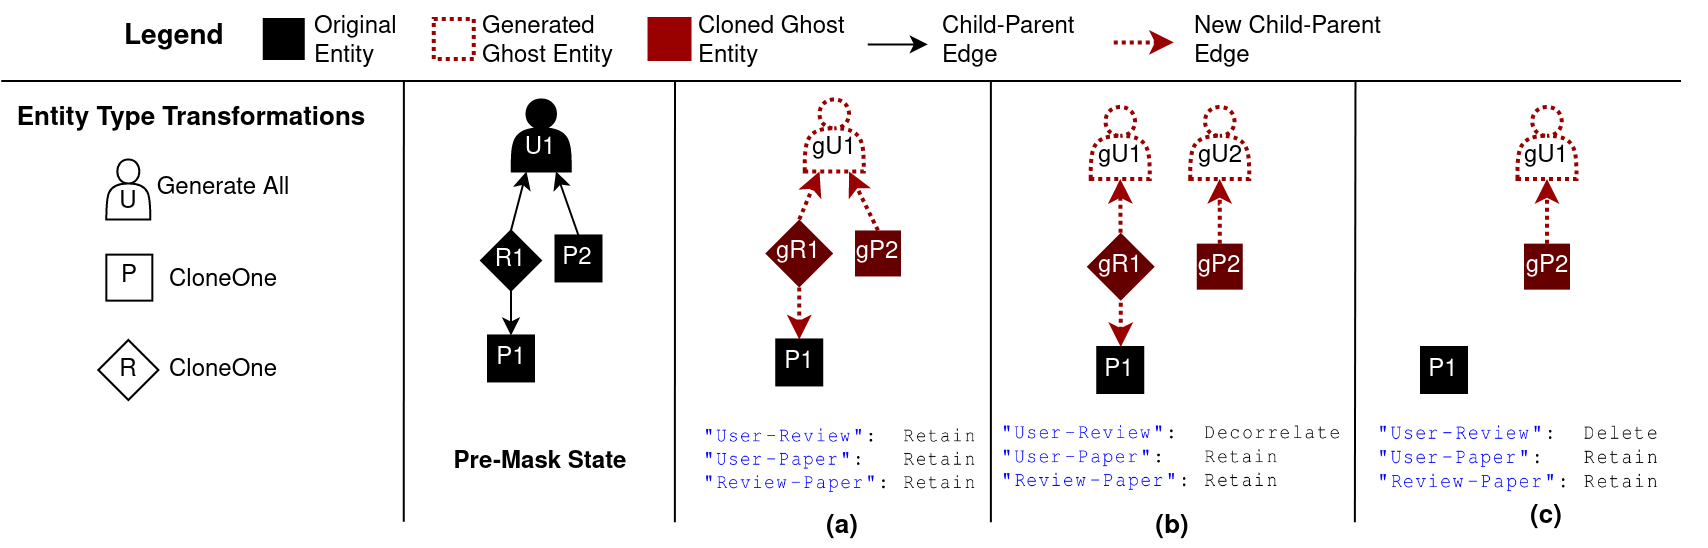
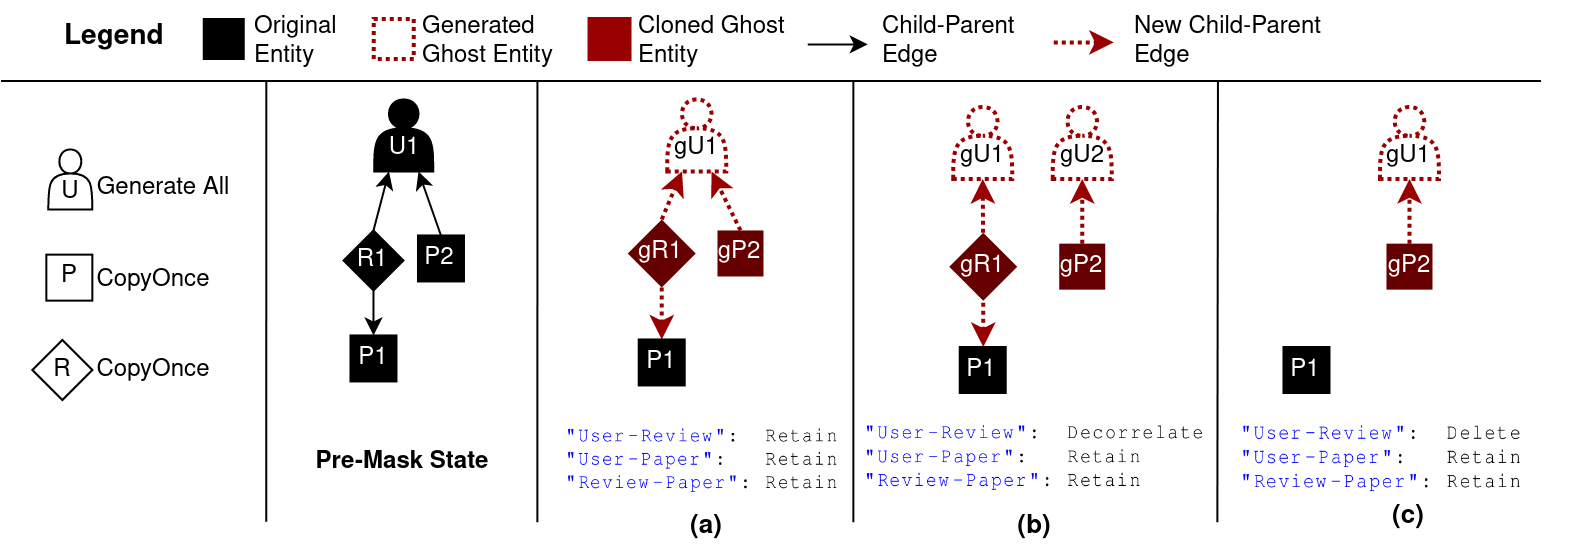
change naming of cloneOne to copy once

diff --git a/hotos21/design.tex b/hotos21/design.tex
@@ -25,8 +25,8 @@ retained, or decorrelated and replaced with edges to ghost entities.
 "id":         IDAttribute,
 "username":   Generate(Random),
 "active":     Generate(Default(false)),
-"darkmode":   CloneAll,
-"notifs":     CloneOne(Default(false)),
+"darkmode":   CopyAll,
+"notifs":     CopyOne(Default(false)),
 "tag_id":     GenerateForeignKey,
 \end{lstlisting}
     & 
@@ -78,7 +78,7 @@ For each value and edge attribute of each entity type, developers choose how to 
 attributes, given a real entity attribute value as a template. 
 The possible transformations include:
 
-\paragraph{(1) CloneAll.} Ghosts generated from the same template all share the template's
+\paragraph{(1) Copy entity content.} Ghosts generated from the same template all share the template's
     attribute value. If an attribute specifies an edge (is a foreign key column), 
     all ghosts will share the same edge to the same parent entity.
     This transformation allows developers to retain the entity's content and not have to
@@ -86,11 +86,11 @@ The possible transformations include:
     should only be chosen if ghost attribute values cannot be generated, or if this
     attribute says little about the true identity of the entity. 
 
-    For example, Figure~\ref{fig:ghosting} shows how the \texttt{darkmode} attribute is cloned in
+    For example, Figure~\ref{fig:ghosting} shows how the \texttt{darkmode} attribute is copied in
     all ghosts; the \texttt{darkmode} attribute reveals very little about the underlying user's
     identity.
 
-\paragraph{(2) Generate.}
+\paragraph{(2) Generate new content.}
         For value attributes, developers specify whether the ghost attribute value should be random,
         a default value, or generated from the template value via a custom function (\eg a hash of
         the template value, or the encrypted template value). Figure~\ref{fig:ghosting} illustrates
@@ -102,9 +102,9 @@ The possible transformations include:
         shows how creating two user ghosts recursively creates two ghost tag entities, and uses
         the ghost tags' identifiers as foreign key constraints.
 
-\paragraph{(3) CloneOne.} One ghost entity shares the same value for the attribute as the
+\paragraph{(3) Copy entity content once.} One ghost entity shares the same value for the attribute as the
         template. All other ghosts have generated values (as described above).
-        \texttt{notifs} in Figure~\ref{fig:ghosting} illustrates how the attribute is cloned
+        \texttt{notifs} in Figure~\ref{fig:ghosting} illustrates how the attribute is copied 
         once. This policy enables the application to retain the original entity content (\eg a count
         of how many users want notifications), while modifying the content for any additional
         ghosts.
